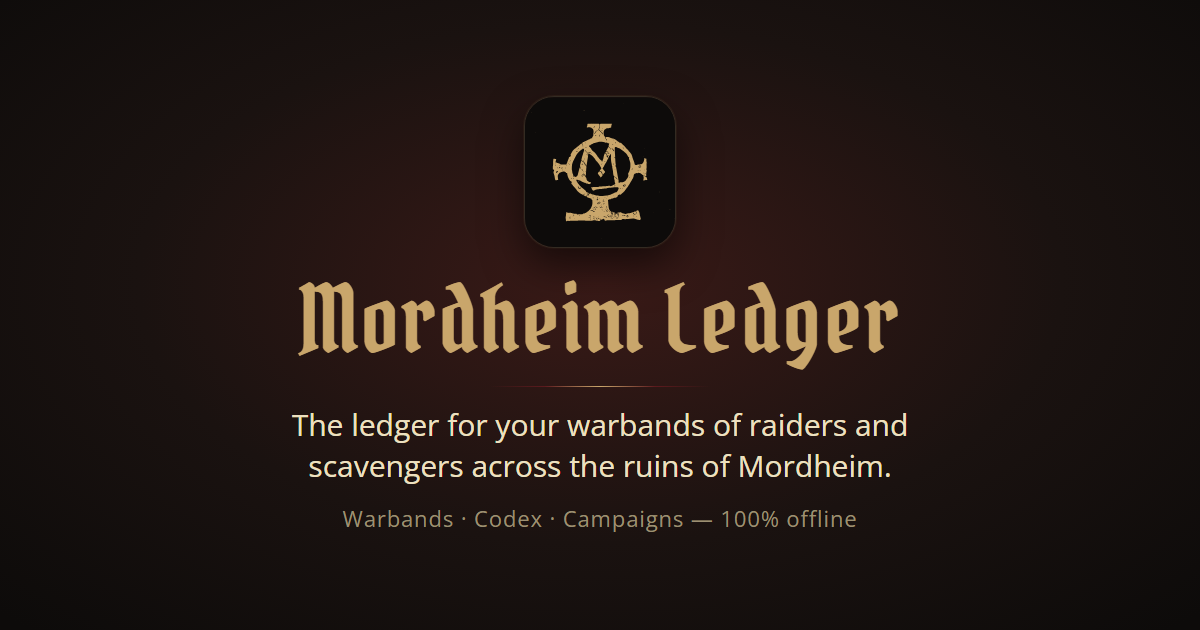
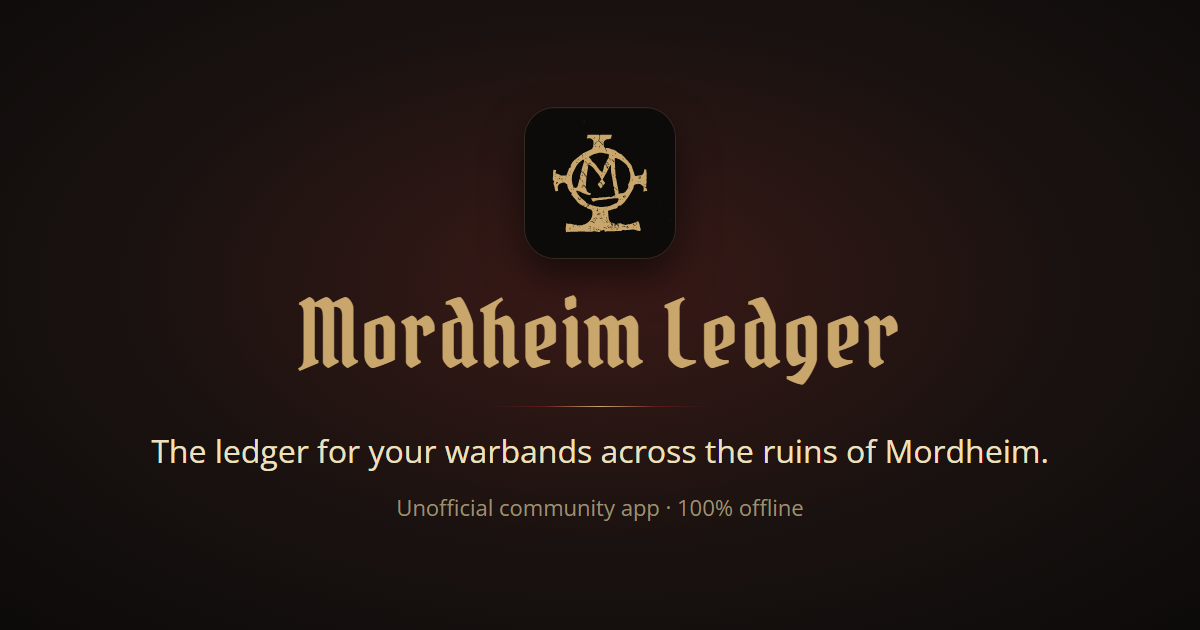
update siteweb

diff --git a/Website/index.html b/Website/index.html
@@ -4,18 +4,18 @@
   <meta charset="utf-8" />
   <meta name="viewport" content="width=device-width, initial-scale=1" />
   <title>Mordheim Ledger — Suivi de bandes et de campagnes Mordheim</title>
-  <meta name="description" content="Mordheim Ledger : gère tes bandes de guerriers-pillards, ton catalogue de règles et tes campagnes du jeu Mordheim. Application communautaire non officielle, 100% hors-ligne." />
+  <meta name="description" content="Mordheim Ledger : gère tes bandes, ton catalogue de règles et tes campagnes du jeu Mordheim. Application communautaire non officielle, 100% hors-ligne." />
   <meta property="og:type" content="website" />
   <meta property="og:url" content="https://mordheimledger.netlify.app/" />
   <meta property="og:locale" content="fr_FR" />
   <meta property="og:title" content="Mordheim Ledger — Suivi de bandes et de campagnes Mordheim" />
-  <meta property="og:description" content="Gère tes bandes de guerriers-pillards, ton catalogue de règles et tes campagnes du jeu Mordheim. 100% hors-ligne." />
+  <meta property="og:description" content="Gère tes bandes, ton catalogue de règles et tes campagnes du jeu Mordheim. 100% hors-ligne." />
   <meta property="og:image" content="https://mordheimledger.netlify.app/assets/og-image.png" />
   <meta property="og:image:width" content="1200" />
   <meta property="og:image:height" content="630" />
   <meta name="twitter:card" content="summary_large_image" />
   <meta name="twitter:title" content="Mordheim Ledger — Suivi de bandes et de campagnes Mordheim" />
-  <meta name="twitter:description" content="Gère tes bandes de guerriers-pillards, ton catalogue de règles et tes campagnes du jeu Mordheim. 100% hors-ligne." />
+  <meta name="twitter:description" content="Gère tes bandes, ton catalogue de règles et tes campagnes du jeu Mordheim. 100% hors-ligne." />
   <meta name="twitter:image" content="https://mordheimledger.netlify.app/assets/og-image.png" />
   <link rel="icon" href="assets/logo.svg" type="image/svg+xml" />
   <link rel="preconnect" href="https://fonts.googleapis.com" />
@@ -49,8 +49,9 @@
     <section class="hero">
       <img class="hero-logo" src="assets/logo.svg" alt="" aria-hidden="true" />
       <h1>Mordheim Ledger</h1>
+      <div class="rule" aria-hidden="true"></div>
       <p class="tagline">
-        Le carnet de bord de tes bandes de guerriers-pillards à travers les ruines de Mordheim.
+        Le carnet de bord de tes bandes à travers les ruines de Mordheim.
       </p>
       <p class="tagline" style="font-size: 1rem; opacity: 0.85;">
         Application communautaire non officielle : un outil pour gérer tes bandes, ton catalogue de

diff --git a/Website/changelog.html b/Website/changelog.html
@@ -40,10 +40,13 @@
       <span class="date">En développement</span>
       <ul>
         <li>Première version publique de Mordheim Ledger.</li>
-        <li>Gestion de bandes : recrutement, équipement, blessures, piste d'expérience fidèle à la feuille de bande papier.</li>
-        <li>Codex complet et éditable : bandes, Place du Marché, compétences, règles spéciales, mutations, montures, sorts, blessures.</li>
+        <li>Gestion de bandes : assistant de création (recrutement, équipement, Francs-Tireurs), fiche de bande fidèle à la feuille papier (profils, piste d'expérience, équipement, blessures) et réserve d'équipement de la bande.</li>
+        <li>Assistant de Fin de Partie qui suit la séquence d'après-bataille du livre de règles : blessures, expérience et progressions, exploration, vente de pierre magique, objets rares, recrutement, Francs-Tireurs et Dramatis Personae.</li>
+        <li>Codex complet et éditable : bandes, Place du Marché (montures comprises), compétences, règles spéciales, mutations, sorts, blessures, Francs-Tireurs et Dramatis Personae, chargé au fil du défilement.</li>
         <li>Contenu officiel, modifié ou personnalisé, distingué clairement pour chaque entrée du Codex.</li>
-        <li>Suivi de plusieurs bandes et campagnes en parallèle.</li>
+        <li>Suivi de plusieurs bandes et campagnes en parallèle, avec l'historique de chaque bande.</li>
+        <li>Confirmation avant d'abandonner une saisie non enregistrée.</li>
+        <li>Démarrage et ouverture des bandes rapides, même sur téléphone.</li>
         <li>Deux palettes visuelles (Cendre & Wyrdstone, Ténèbre & Or) et thème clair/sombre.</li>
         <li>Traduction français/anglais.</li>
         <li>Installeur Windows et APK Android, 100% hors-ligne.</li>

diff --git a/Website/en/changelog.html b/Website/en/changelog.html
@@ -40,10 +40,13 @@
       <span class="date">In development</span>
       <ul>
         <li>First public version of Mordheim Ledger.</li>
-        <li>Warband management: recruitment, equipment, injuries, an experience track faithful to the paper warband sheet.</li>
-        <li>Full, editable Codex: warbands, Trading Post, skills, special rules, mutations, mounts, spells, injuries.</li>
+        <li>Warband management: creation wizard (recruitment, equipment, Hired Swords), a warband sheet faithful to the paper one (profiles, experience track, equipment, injuries) and a warband equipment stash.</li>
+        <li>End of Game wizard following the rulebook's post-battle sequence: injuries, experience and advances, exploration, wyrdstone sale, rare items, recruitment, Hired Swords and Dramatis Personae.</li>
+        <li>Full, editable Codex: warbands, Trading Post (mounts included), skills, special rules, mutations, spells, injuries, Hired Swords and Dramatis Personae, loaded as you scroll.</li>
         <li>Official, modified or custom content, clearly marked for every Codex entry.</li>
-        <li>Track several warbands and campaigns in parallel.</li>
+        <li>Track several warbands and campaigns in parallel, with each warband's history.</li>
+        <li>Confirmation before discarding unsaved changes.</li>
+        <li>Fast startup and warband loading, even on phones.</li>
         <li>Two visual palettes (Ash & Warpstone, Shadow & Gold) and light/dark theme.</li>
         <li>French/English translation.</li>
         <li>Windows installer and Android APK, 100% offline.</li>

diff --git a/Website/styles.css b/Website/styles.css
@@ -162,7 +162,16 @@ nav.container {
 .hero {
   text-align: center;
   padding: 96px 24px 72px;
-  background: radial-gradient(ellipse at 50% -10%, rgba(201, 166, 107, 0.25), transparent 60%);
+  /* Halo rouge sang centré sur le titre - même ambiance que les images OG (assets/og-image*.png),
+     qui en sont l'aperçu. Se fond dans --bg sur les bords pour enchaîner sans couture avec la suite. */
+  background: radial-gradient(ellipse 70% 75% at 50% 45%, #3a1a17 0%, #1a1210 40%, var(--bg) 72%);
+}
+
+.hero .rule {
+  width: 220px;
+  height: 1px;
+  margin: 0 auto 20px;
+  background: linear-gradient(90deg, transparent, var(--accent-2), var(--accent), var(--accent-2), transparent);
 }
 
 .hero img.hero-logo {
@@ -184,6 +193,12 @@ nav.container {
   color: var(--text-muted);
   max-width: 560px;
   margin: 0 auto 32px;
+  text-wrap: balance;
+}
+
+/* Slogan principal en crème (comme sur l'OG), la ligne secondaire reste atténuée. */
+.hero p.tagline:first-of-type {
+  color: var(--text);
 }
 
 .hero .actions {

diff --git a/Website/en/index.html b/Website/en/index.html
@@ -49,8 +49,9 @@
     <section class="hero">
       <img class="hero-logo" src="../assets/logo.svg" alt="" aria-hidden="true" />
       <h1>Mordheim Ledger</h1>
+      <div class="rule" aria-hidden="true"></div>
       <p class="tagline">
-        The ledger for your warbands of raiders and scavengers across the ruins of Mordheim.
+        The ledger for your warbands across the ruins of Mordheim.
       </p>
       <p class="tagline" style="font-size: 1rem; opacity: 0.85;">
         Unofficial community app: a tool to manage your warbands, your rules catalog and your
